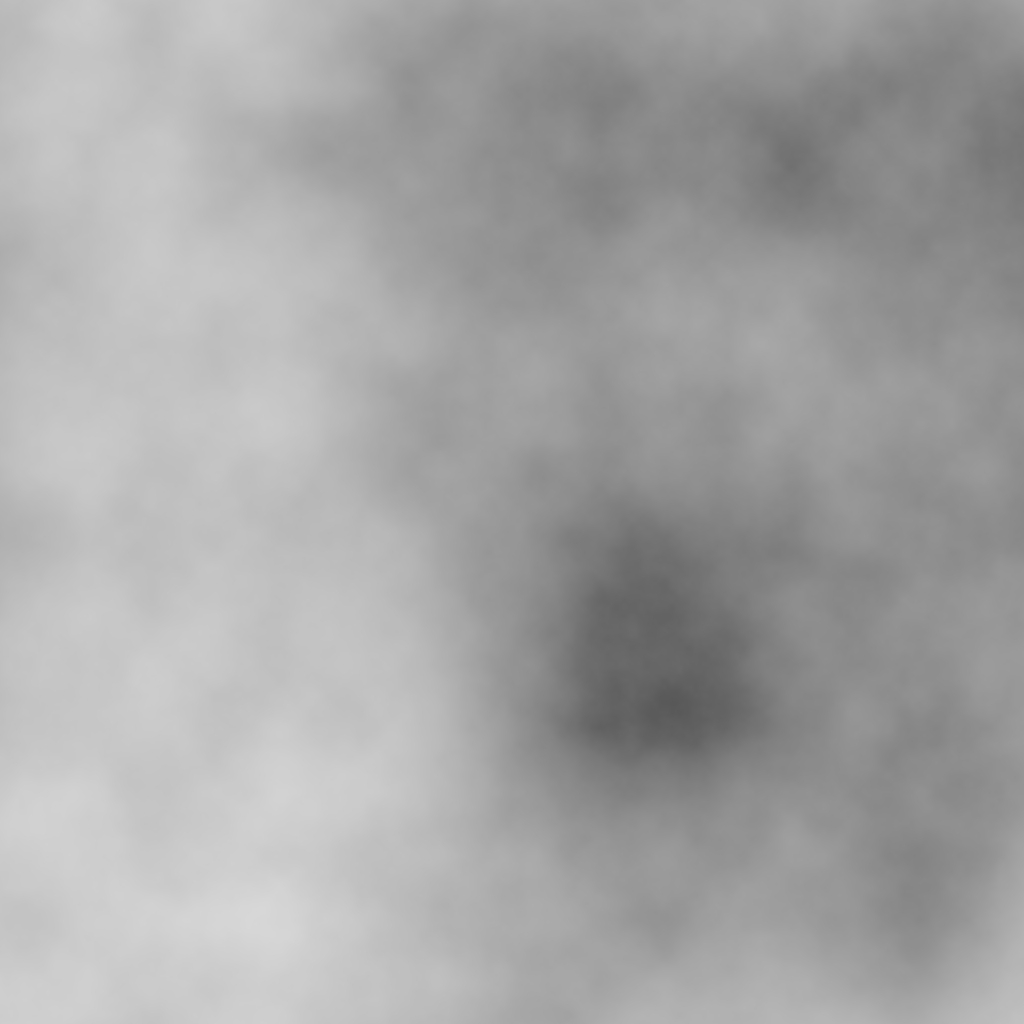
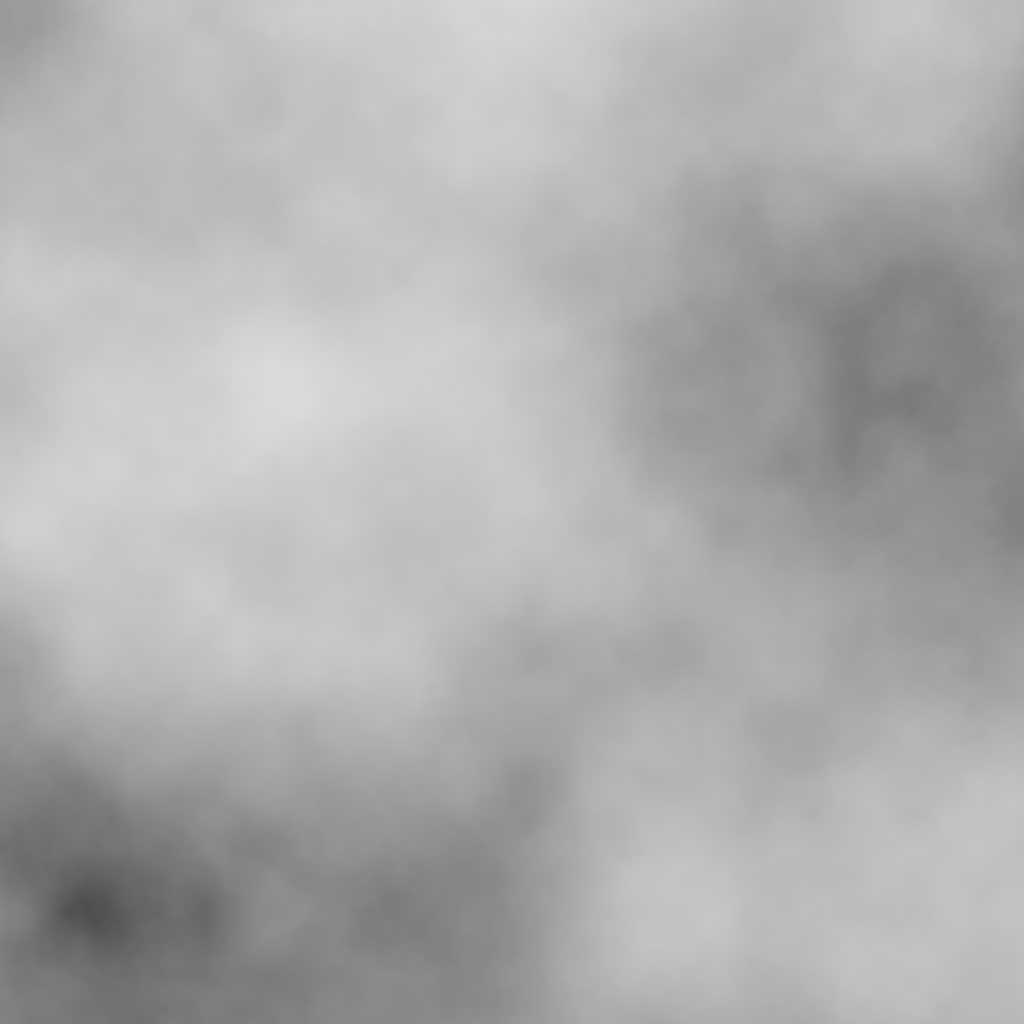
seamlessPerlin ongoing

diff --git a/ProceduralTexture/PerlinNoise.cpp b/ProceduralTexture/PerlinNoise.cpp
@@ -13,12 +13,12 @@ PerlinNoise::PerlinNoise()
 	basePath = L"./Shader/FX/";
 	CreateBuffer();
 	
-	CreateShader(L"rndNoise.fx");
+	CreateShader(L"perlin.fx");
 
 	rndNoise = new RenderTexture(1024,1024);
 
 
-	MakePerlinNoise();
+	//MakePerlinNoise();
 }
 
 PerlinNoise::~PerlinNoise()
@@ -60,7 +60,7 @@ void PerlinNoise::MakePerlinNoise(float r, float g, float b) {
 	color.g = g;
 	color.b = b;
 
-	color.a = (float)rand()/532;
+	color.a = (float)rand()/256;
 
 	D3D11_MAPPED_SUBRESOURCE subResource;
 	HRESULT hr = D3D::GetDeviceContext()->Map
@@ -83,7 +83,7 @@ void PerlinNoise::MakePerlinNoise(float r, float g, float b) {
 
 	D3D::Get()->SetDefaultRenderView();
 	//CreateShader();
-	rndNoise->SaveTexture(L"PerlinNoise.png");
+	//rndNoise->SaveTexture(L"PerlinNoise.png");
 }
 void PerlinNoise::Render()
 {
@@ -284,10 +284,10 @@ void PerlinNoise::CreateBuffer()
 	rect[2].position = D3DXVECTOR3(1, -1,  0);
 	rect[3].position = D3DXVECTOR3(1, 1,   0);
 
-	rect[0].uv = D3DXVECTOR2(0, 1);
+	rect[0].uv = D3DXVECTOR2(0, 2);
 	rect[1].uv = D3DXVECTOR2(0, 0);
-	rect[2].uv = D3DXVECTOR2(1, 1);
-	rect[3].uv = D3DXVECTOR2(1, 0);
+	rect[2].uv = D3DXVECTOR2(2, 2);
+	rect[3].uv = D3DXVECTOR2(2, 0);
 
 	UINT* index = new UINT[6]{0,1,2,2,1,3};
 

diff --git a/GameMain.cpp b/GameMain.cpp
@@ -79,6 +79,7 @@ void GameMain::Initialize()
 	landscape->Initialize();
 	grass->Initialize(landscape);
 	cloud->Initialize();
+	noise->MakePerlinNoise();
 
 	grassTexture->DrawTexture();
 	landscape->SetTexture(grassTexture->diffuse, nullptr, nullptr);
@@ -174,7 +175,7 @@ void GameMain::Update()
 
 void GameMain::PreRender()
 {
-	//return;
+	return;
 	D3DXMATRIX view, projection;
 	D3DXMatrixIdentity(&view);
 	D3DXMatrixIdentity(&projection);
@@ -323,8 +324,8 @@ void GameMain::PreRender()
 void GameMain::Render()
 {
 
-	//noise->Render();
-	//return;
+	noise->Render();
+	return;
 	D3DXMATRIX world, view, projection;
 	//Camera::Get()->GetDefaultView(&view);
 	//D3D::Get()->GetOrthoProjection(&projection);

diff --git a/ProceduralTexture/GrassTexture.cpp b/ProceduralTexture/GrassTexture.cpp
@@ -20,7 +20,7 @@ GrassTexture::GrassTexture()
 	ShaderList.push_back(L"midPointGrad.fx");
 	ShaderList.push_back(L"directionalWarp.fx");
 	ShaderList.push_back(L"randomSRT.fx");
-	ShaderList.push_back(L"rndNoise.fx");
+	ShaderList.push_back(L"perlin.fx");
 	ShaderList.push_back(L"randomSRTInstance.fx");
 	ShaderList.push_back(L"finalDraw.fx");
 	

diff --git a/ProceduralTexture/MosaicTile.cpp b/ProceduralTexture/MosaicTile.cpp
@@ -23,7 +23,7 @@ MosaicTile::MosaicTile()
 	ShaderList.push_back(L"CreateTangentMap.fx");
 	ShaderList.push_back(L"SquarePattern.fx");
 	ShaderList.push_back(L"DrawPatternInTile.fx");
-	ShaderList.push_back(L"rndNoise.fx");
+	ShaderList.push_back(L"perlin.fx");
 	ShaderList.push_back(L"finalDraw.fx");
 
 
